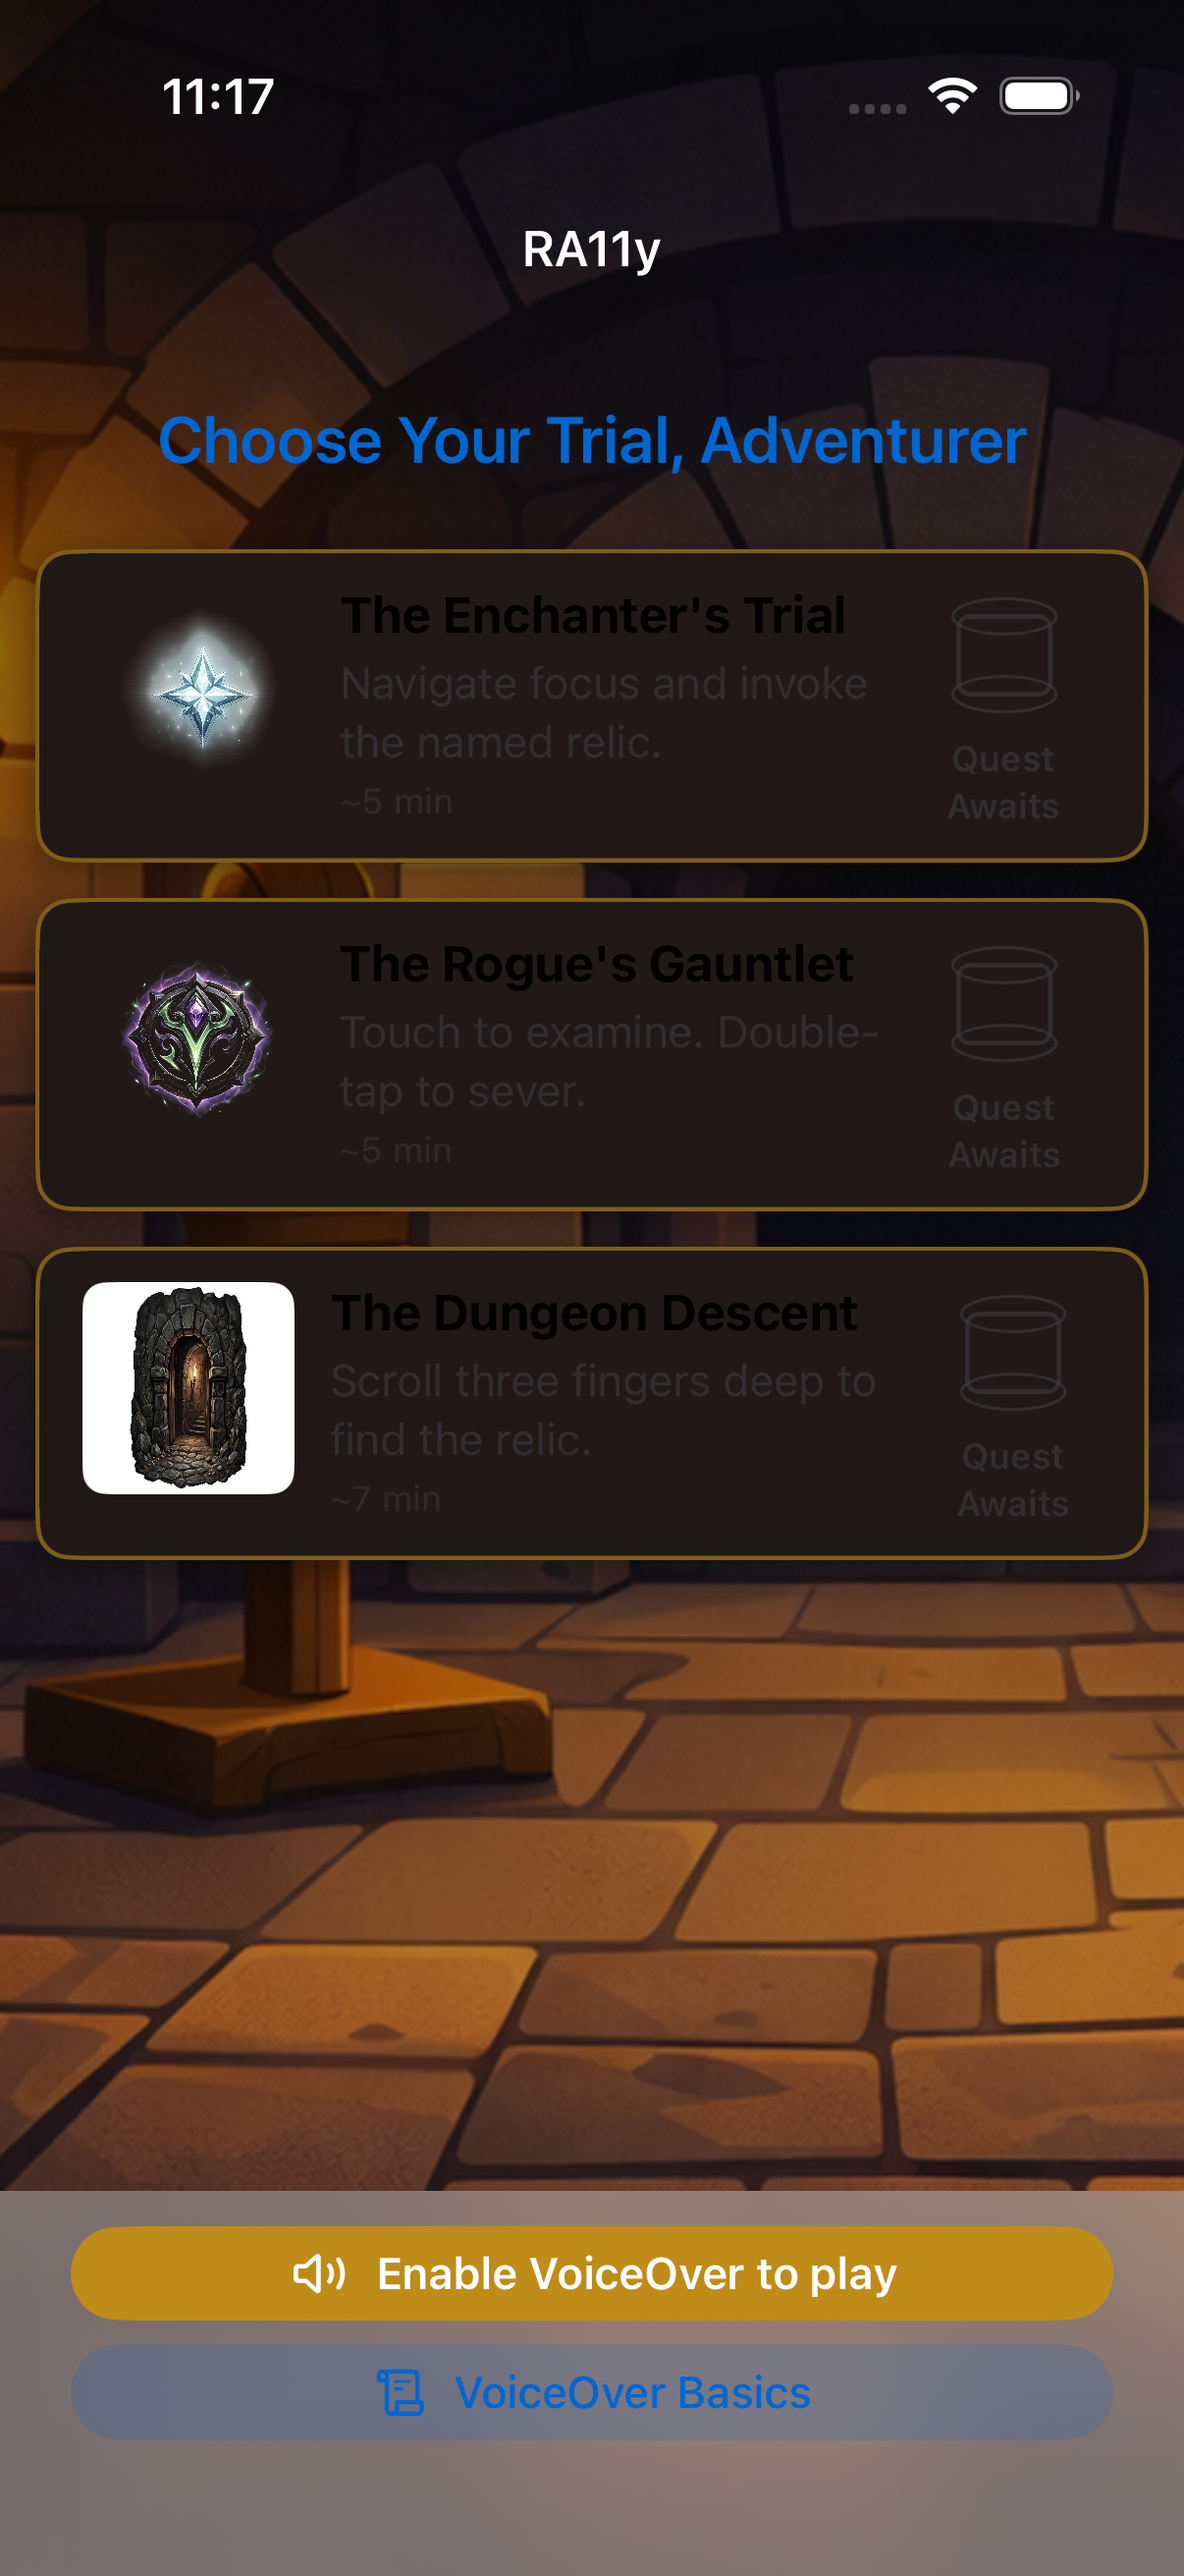
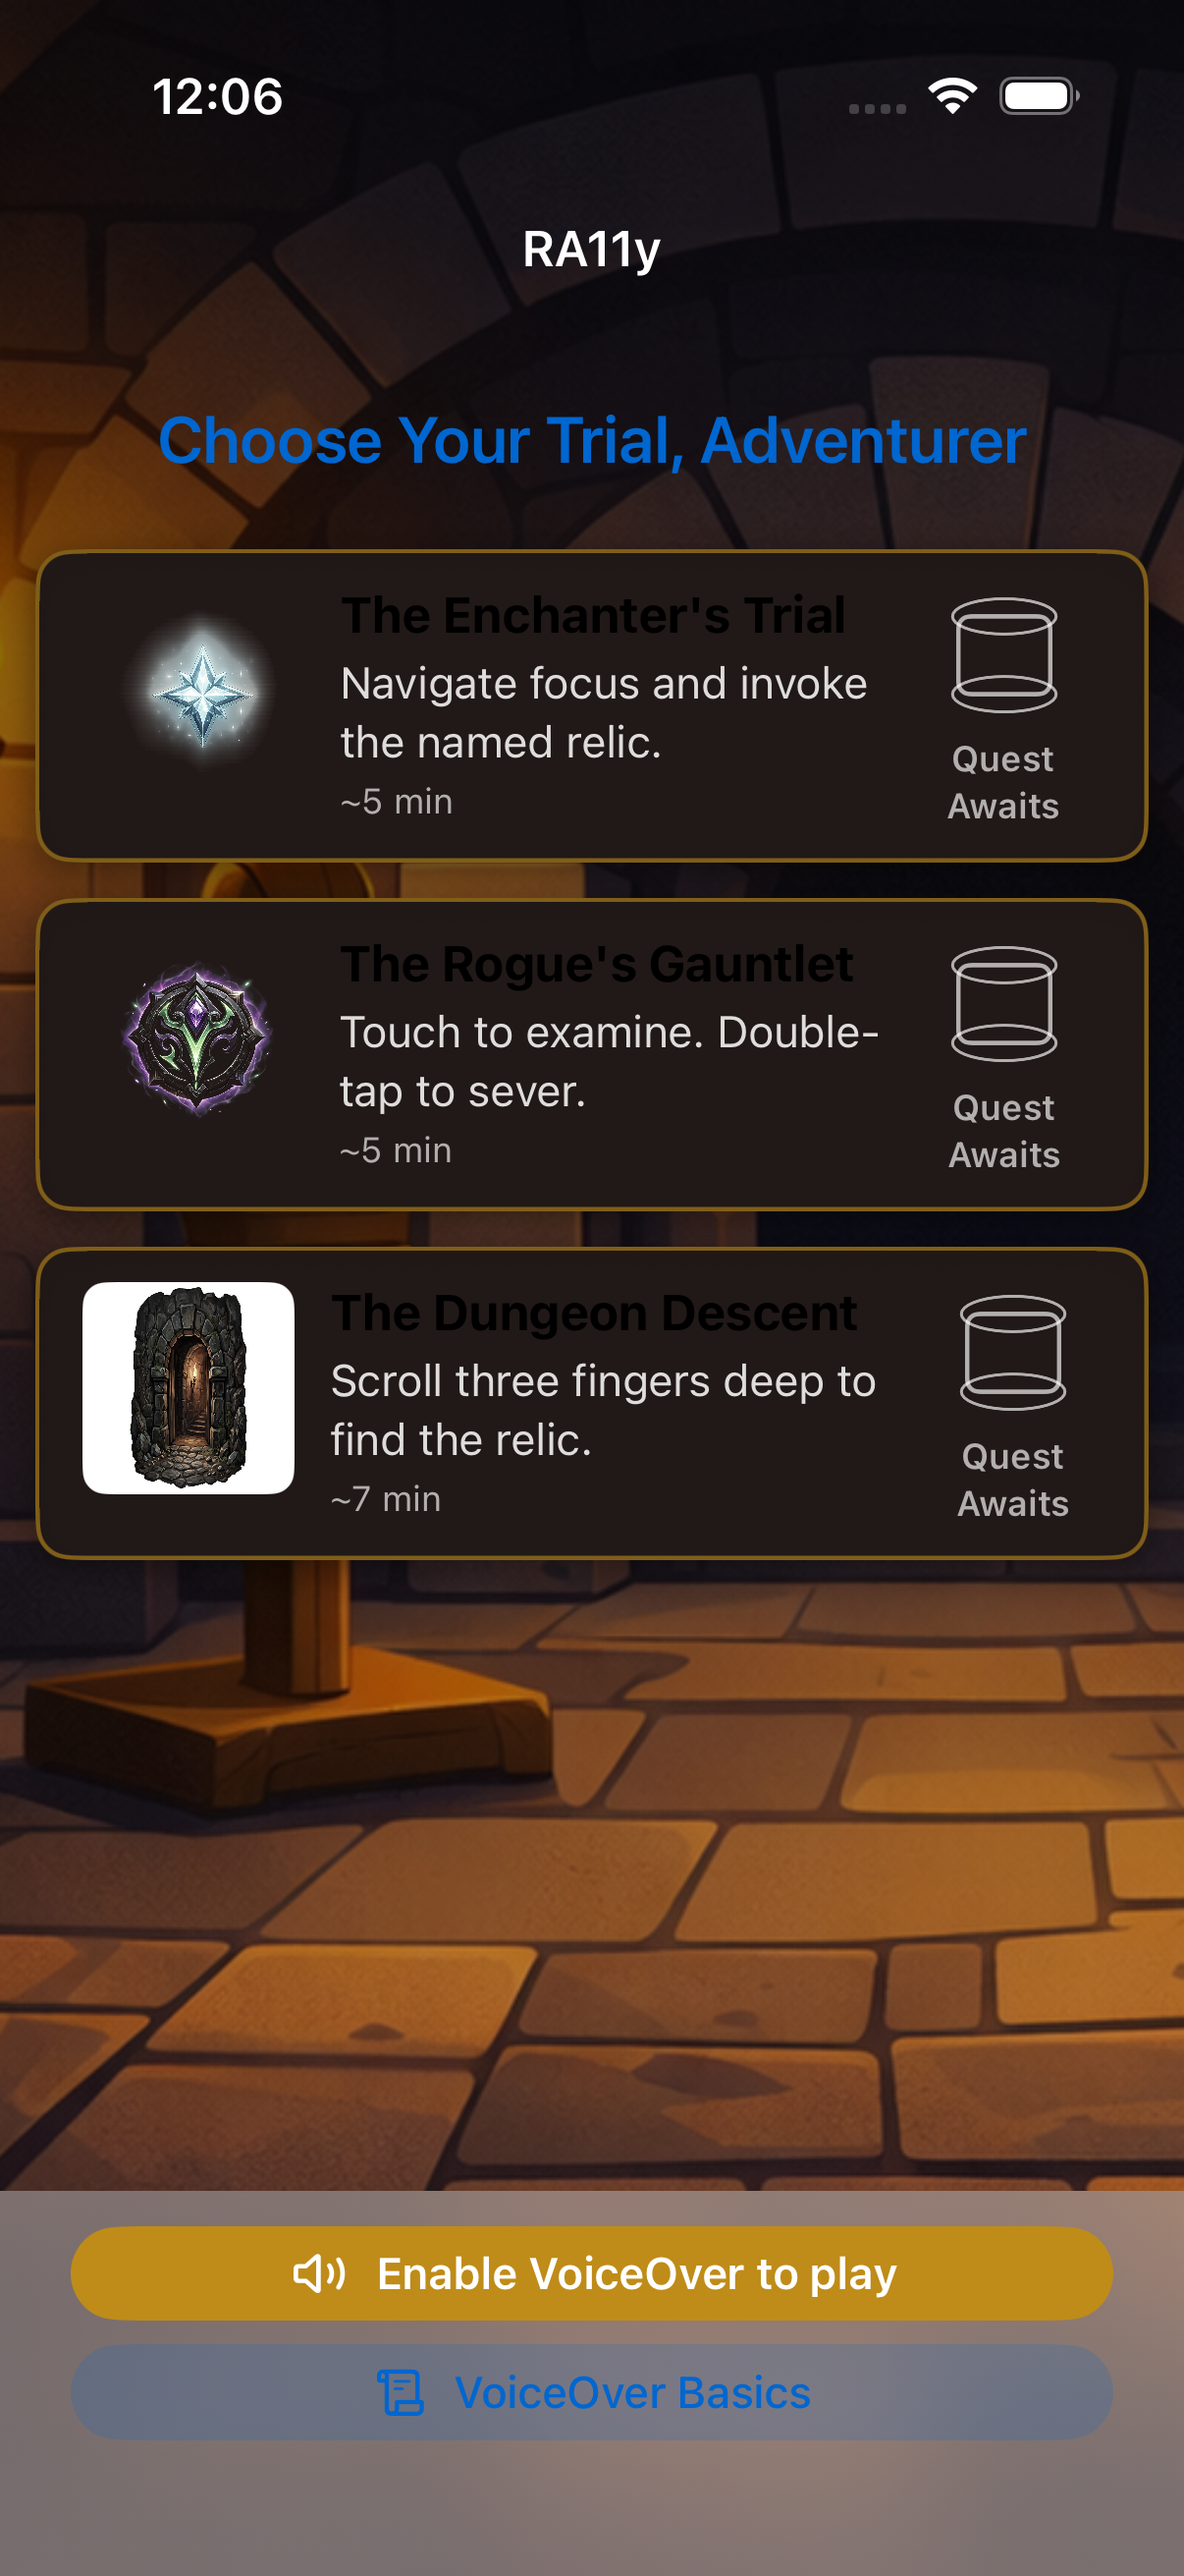
Improve screenshot test routing and extraction
Add deterministic onboarding control and more robust screenshot extraction.

- Add a new launch argument `-screenshotMarkOnboardingComplete` and apply it in @main to set `basicsCompleted = true`, allowing the app to route directly to the hub regardless of simulator state.
- Update UI test `testScreenshots_Hub_VORequired` to include the new launch argument so the hub is deterministic even after `testScreenshots_FirstRun` clears onboarding flags.
- Harden Fastlane `screenshots` lane: don't abort on a non-zero xcodebuild exit, always attempt to extract an xcresult bundle if produced, validate presence of PNGs, copy found screenshots to docs/screenshots, and emit clearer logs when xcodebuild or extraction partially fail.
- Add new screenshot assets (VORequired and FirstRun variants) and update existing Hub PNGs for iPad and iPhone sizes.

These changes ensure reliable, repeatable screenshot captures and allow partial test failures to still yield usable screenshots for documentation.

diff --git a/RA11y-iOS/RA11y-iOS/RA11y_iOSApp.swift b/RA11y-iOS/RA11y-iOS/RA11y_iOSApp.swift
@@ -16,9 +16,9 @@ import RA11yCore
 /// ## Screenshot Testing
 /// The fastlane `screenshots` lane launches the app with specific arguments:
 /// - `-screenshotResetOnboarding`: clears first-run flags so the app routes to
-///   the First Run entry screen. Used by the screenshot test to capture that screen.
-/// - Omitting the flag: preserves any stored state; typically the hub is shown
-///   (first-run flags are set by an earlier test pass).
+///   the First Run entry screen.
+/// - `-screenshotMarkOnboardingComplete`: sets `basicsCompleted = true` so the
+///   app routes directly to the hub, regardless of prior simulator state.
 @main
 struct RA11y_iOSApp: App {
 
@@ -37,11 +37,15 @@ struct RA11y_iOSApp: App {
 
     /// Applies `UserDefaults` overrides requested by the fastlane screenshot lane.
     ///
-    /// - `-screenshotResetOnboarding`: erases the "basics completed / dismissed"
-    ///   flags so `iOSRootView` routes to the First Run entry screen on next launch.
+    /// Recognised launch arguments (all require `-uiTesting`):
+    /// - `-screenshotResetOnboarding`: erases both first-run flags so the app routes
+    ///   to the First Run entry screen. Used by `testScreenshots_FirstRun`.
+    /// - `-screenshotMarkOnboardingComplete`: writes `basicsCompleted = true` so the
+    ///   app routes directly to the hub. Used by `testScreenshots_Hub_VORequired` to
+    ///   ensure a deterministic hub route regardless of prior simulator state (e.g.
+    ///   after `testScreenshots_FirstRun` clears the flags in the same xcodebuild run).
     ///
-    /// This function is a no-op in non-DEBUG builds and when the relevant launch
-    /// arguments are absent.
+    /// This function is a no-op in non-DEBUG builds and when `-uiTesting` is absent.
     ///
     /// - Concurrency: Called synchronously on `@main` during `init`. Safe because
     ///   `UserDefaultsStorageComponent` is not yet initialised at this point, so
@@ -59,6 +63,14 @@ struct RA11y_iOSApp: App {
                 forKey: UserDefaultsStorageComponent.ScreenshotTestingKeys.basicsDismissed
             )
             RA11yLogger.startup.debug("Screenshot: onboarding flags cleared for first-run screen")
+        }
+
+        if args.contains("-screenshotMarkOnboardingComplete") {
+            UserDefaults.standard.set(
+                true,
+                forKey: UserDefaultsStorageComponent.ScreenshotTestingKeys.basicsCompleted
+            )
+            RA11yLogger.startup.debug("Screenshot: basicsCompleted set for hub route")
         }
         #endif
     }

diff --git a/RA11y-iOS/RA11y-iOSUITests/RA11y_iOSScreenshots.swift b/RA11y-iOS/RA11y-iOSUITests/RA11y_iOSScreenshots.swift
@@ -50,6 +50,11 @@ final class RA11y_iOSScreenshots: XCTestCase {
 
     /// Captures the Hub and VoiceOver Required screens in a single app launch.
     ///
+    /// `-screenshotMarkOnboardingComplete` ensures the hub is the initial route
+    /// regardless of what a prior test method did to the simulator's UserDefaults.
+    /// This is necessary because `testScreenshots_FirstRun` (which runs first,
+    /// alphabetically) clears the onboarding flags via `-screenshotResetOnboarding`.
+    ///
     /// VoiceOver is not active in the simulator, so tapping any quest card
     /// triggers the interstitial — no special routing is needed.
     ///
@@ -57,7 +62,7 @@ final class RA11y_iOSScreenshots: XCTestCase {
     @MainActor
     func testScreenshots_Hub_VORequired() throws {
         let app = XCUIApplication()
-        app.launchArguments = ["-uiTesting"]
+        app.launchArguments = ["-uiTesting", "-screenshotMarkOnboardingComplete"]
         app.launch()
 
         // Wait for the hub's DM greeting to confirm the hub is fully rendered.
